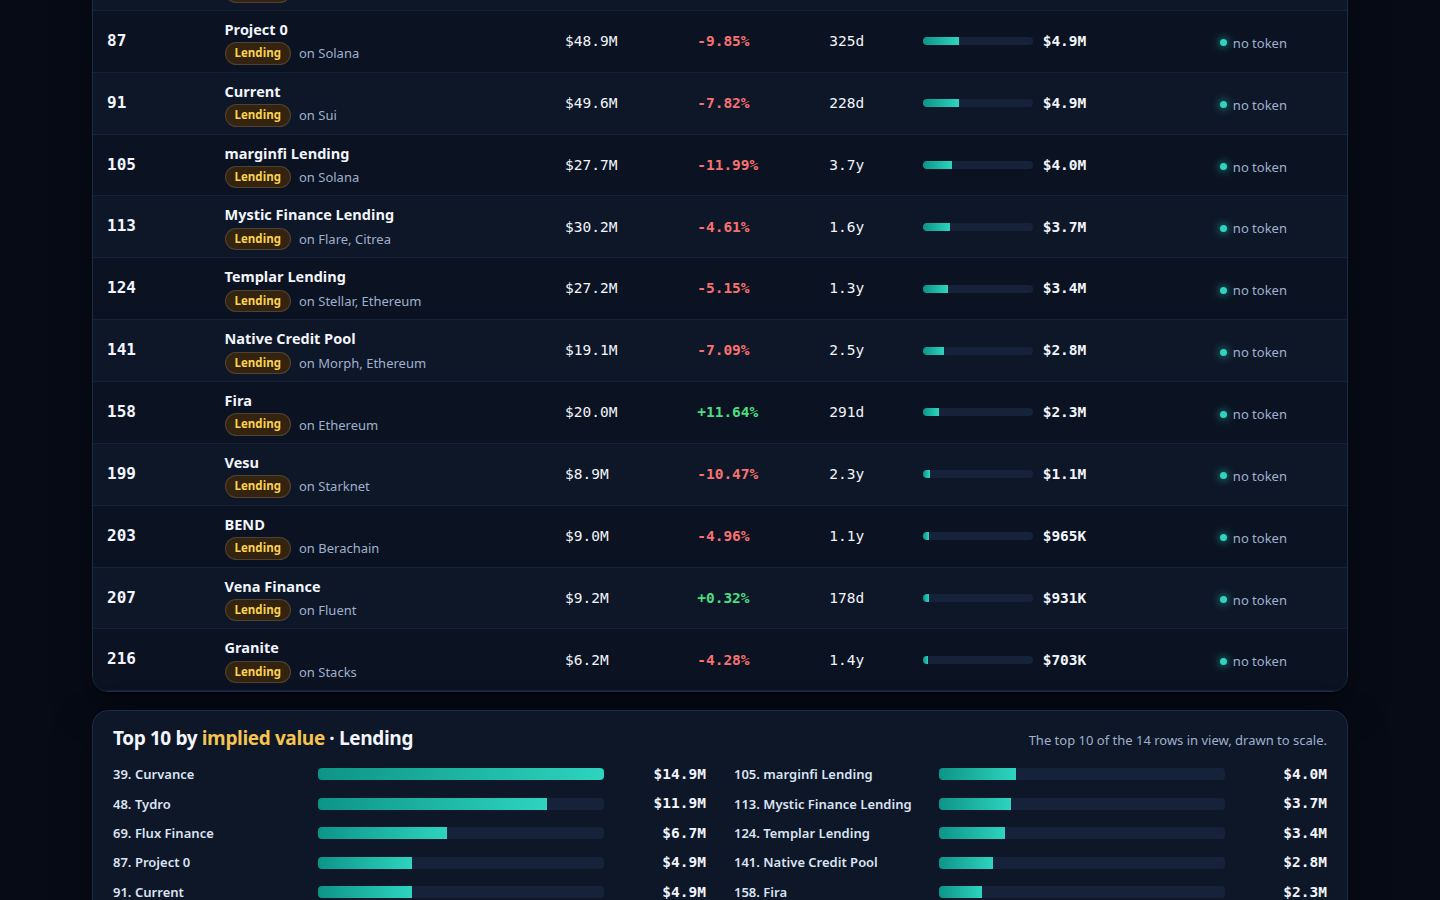
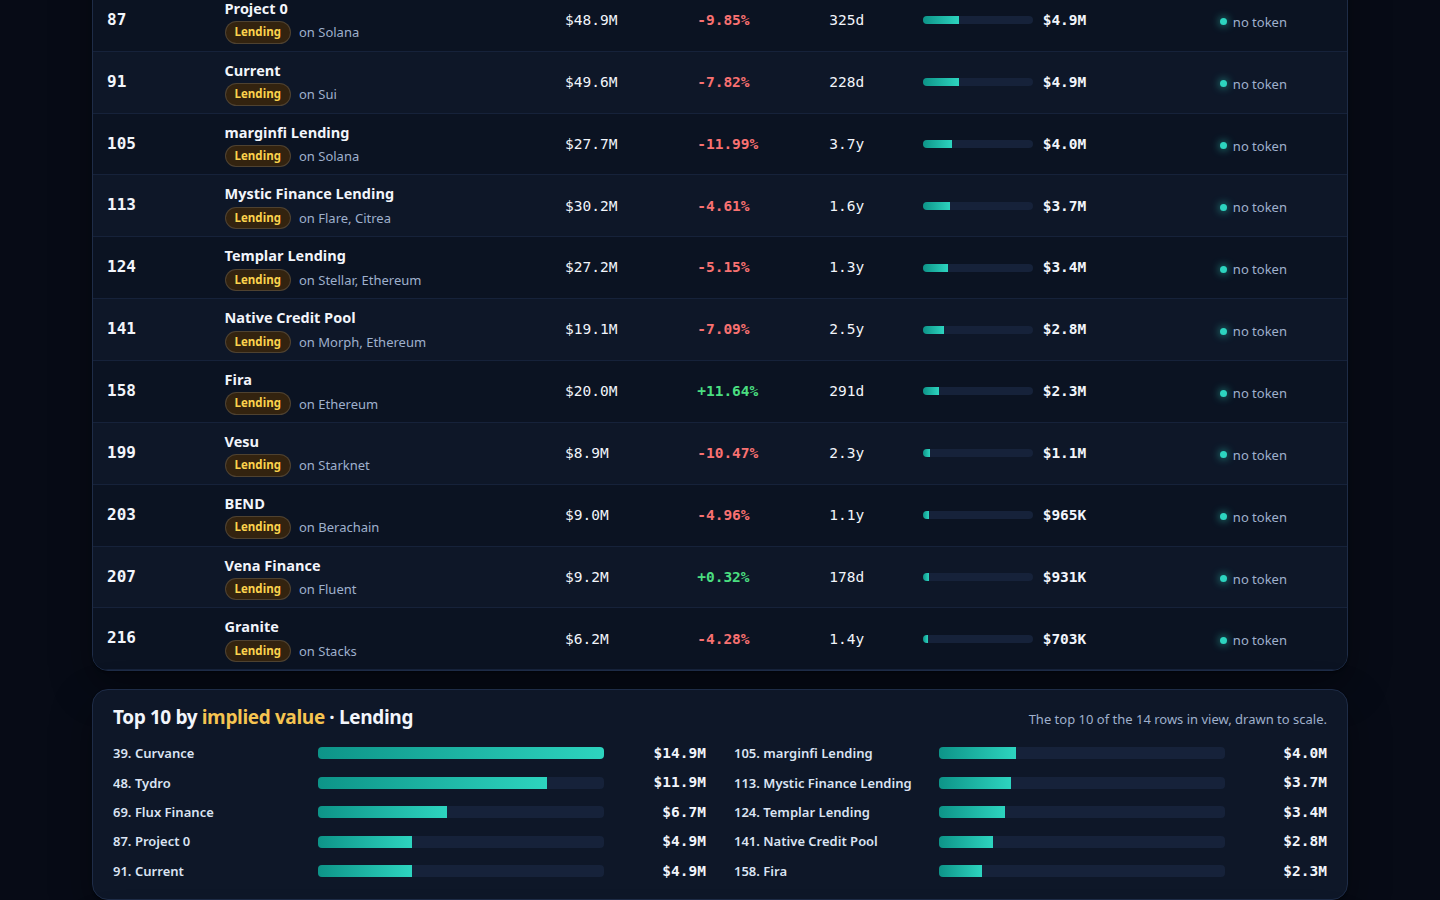
Add 'Open protocol page' affordance to detail drawer
- Detail drawer now shows the protocol's DefiLlama page as large
  selectable text (defillama.com/protocol/<slug>, no scheme) with a
  Copy link button (clipboard + fallback, 'Copied!' feedback) and the
  CoinGecko id when recorded; whole table row and hero card open the
  drawer. No clickable web link: the bounty gate refuses any
  http/https address in a dashboard attribute, so the copy button is
  the one-click way to the page.
- lib/model.ts: gecko_id carried into data.js rows; snapshot source
  line kept as plain text without its scheme (data.js had one
  https:// literal from it).
- Screenshots retaken; all 7 farm steps still fully visible.

diff --git a/dashboard/app.js b/dashboard/app.js
@@ -226,7 +226,7 @@
             el('b', { text: 'Every protocol with $50M+ of TVL and no token on record' }),
             ' — plus ' + DATA.early_size + ' early names below the floor — scored by one model: TVL × peer multiple × growth × maturity × chains. No names hand-picked. No promises, just the arithmetic.')
         ),
-        el('div', { class: 'hero-card' },
+        el('div', { class: 'hero-card', title: 'Open ' + top1.name + ' details', onclick: function () { openDetail(top1.slug); } },
           el('div', { class: 'hero-card-inner' },
             el('div', { class: 'label', text: '№ 1 · Implied value' }),
             el('div', { class: 'hero-value', text: fmtUsd(top1.implied_value_usd) }),
@@ -454,6 +454,33 @@
   var dialog = el('dialog', { class: 'detail', id: 'detail', 'aria-labelledby': 'detail-title' });
   dialog.addEventListener('close', function () { state.selected = null; writeHash(); });
 
+  // Copy plain text to the clipboard: the Clipboard API where it exists, a hidden
+  // textarea fallback where it does not (a file page in some browsers). The button
+  // shows the result, so the action is visible even when the clipboard cannot be read back.
+  function copyText(text, btn) {
+    function done() {
+      btn.textContent = 'Copied!';
+      btn.classList.add('copied');
+      setTimeout(function () { btn.textContent = 'Copy link'; btn.classList.remove('copied'); }, 2000);
+    }
+    function fallback() {
+      var ta = document.createElement('textarea');
+      ta.value = text;
+      ta.style.position = 'fixed';
+      ta.style.opacity = '0';
+      document.body.appendChild(ta);
+      ta.select();
+      try { document.execCommand('copy'); } catch (e) { /* clipboard unavailable */ }
+      document.body.removeChild(ta);
+      done();
+    }
+    if (navigator.clipboard && navigator.clipboard.writeText) {
+      navigator.clipboard.writeText(text).then(done, fallback);
+    } else {
+      fallback();
+    }
+  }
+
   function openDetail(slug) {
     var row = DATA.rows.filter(function (r) { return r.slug === slug; })[0];
     if (!row) return;
@@ -481,6 +508,28 @@
     }
     if (mult !== null && mult <= DATA.model.peer_floor + 1e-9) peerNoteText += ' It sits at the model floor of ' + DATA.model.peer_floor + 'x.';
     else if (mult !== null && mult >= DATA.model.peer_cap - 1e-9) peerNoteText += ' It sits at the model cap of ' + DATA.model.peer_cap + 'x.';
+    // Where this protocol lives on the web, as plain text the reader can copy: the
+    // snapshot carries no official website per protocol, so the honest page is the
+    // protocol's DefiLlama page, built from its slug. The address carries no scheme
+    // on purpose — a clickable web link is not allowed in this dashboard, so the
+    // copy button is the one-click way to the page: copy, paste into a browser.
+    var pageAddr = 'defillama.com/protocol/' + row.slug;
+    var geckoLine = row.gecko_id
+      ? 'CoinGecko id: ' + row.gecko_id
+      : 'No CoinGecko id recorded for this protocol.';
+    var copyBtn = el('button', { class: 'button copy-btn', type: 'button', text: 'Copy link' });
+    copyBtn.addEventListener('click', function () { copyText(pageAddr, copyBtn); });
+    var linkBox = el('div', { class: 'link-box' },
+      el('h3', { text: 'Open protocol page' }),
+      el('p', { class: 'sub', text: 'Paste into your browser to open its DefiLlama page.' }),
+      el('div', { class: 'link-row' },
+        // Break opportunities only after the slashes, so the address wraps cleanly
+        // instead of splitting mid-word.
+        el('code', { class: 'link-addr' }, 'defillama.com/', el('wbr'), 'protocol/', el('wbr'), row.slug),
+        copyBtn
+      ),
+      el('p', { class: 'sub', text: geckoLine })
+    );
     dialog.appendChild(el('div', { class: 'detail-head' },
       el('div', null,
         el('span', { class: 'brand-name', text: 'Rank ' + row.rank + ' of ' + DATA.board_size }),
@@ -510,7 +559,8 @@
           el('div', null, el('span', { text: 'Implied value' }), el('b', { class: 'num', text: fmtUsd(row.implied_value_usd) }))
         ),
         el('p', { class: 'peer-note', text: peerNoteText }),
-        el('p', { class: 'sub', text: 'Model ' + DATA.model_version + ': the same function scores every protocol. The page recomputes this row as ' + fmtUsd(impliedOf(row, DATA.model)) + (impliedOf(row, DATA.model) === row.implied_value_usd ? ', the same number board.json carries.' : ', which differs from the board: the data would be stale.') + ' This is an estimate, not a price.' })
+        el('p', { class: 'sub', text: 'Model ' + DATA.model_version + ': the same function scores every protocol. The page recomputes this row as ' + fmtUsd(impliedOf(row, DATA.model)) + (impliedOf(row, DATA.model) === row.implied_value_usd ? ', the same number board.json carries.' : ', which differs from the board: the data would be stale.') + ' This is an estimate, not a price.' }),
+        linkBox
       ),
       el('section', { class: 'detail-section' },
         el('h3', { text: 'Farm plan' }),

diff --git a/dashboard/app.css b/dashboard/app.css
@@ -84,7 +84,7 @@ a { color: var(--teal); }
 .hero-copy p { color: var(--muted); max-width: 58ch; margin-top: 12px; font-size: 16px; }
 .hero-copy p b { color: var(--ink); }
 .hero-card {
-  position: relative; border-radius: var(--radius-panel); padding: 2px;
+  position: relative; border-radius: var(--radius-panel); padding: 2px; cursor: pointer;
   background: linear-gradient(135deg, rgba(245, 196, 81, 0.9), rgba(45, 212, 191, 0.55) 55%, rgba(56, 189, 248, 0.35));
   box-shadow: 0 18px 50px rgba(0, 0, 0, 0.5), 0 0 0 1px rgba(245, 196, 81, 0.12), 0 0 44px rgba(245, 196, 81, 0.10);
 }
@@ -230,6 +230,21 @@ tbody tr[data-selected="true"] { background: #16283f; }
 .steps li::marker { color: var(--gold); font-weight: 800; font-family: var(--font-num); }
 .steps b { display: block; font-weight: 600; }
 .cost { color: var(--muted); font-size: 12.5px; font-family: var(--font-num); }
+
+/* OPEN PROTOCOL PAGE — the address as large selectable text plus a copy button.
+   There is deliberately no web link here: the bounty rules refuse one in this
+   dashboard, so the copy button is the one-click way to the page. */
+.link-box { margin-top: 12px; padding-top: 10px; border-top: 1px solid var(--line); }
+.link-box .sub { margin-top: 4px; }
+.link-row { display: flex; gap: 10px; align-items: stretch; margin-top: 8px; }
+.link-addr {
+  flex: 1; min-width: 0; user-select: all;
+  font-family: var(--font-num); font-size: 13.5px; font-weight: 700; color: var(--gold);
+  background: #0a1120; border: 1px solid var(--line); border-left: 3px solid var(--gold);
+  border-radius: 8px; padding: 8px 10px; line-height: 1.5;
+}
+.copy-btn { flex: none; min-height: 42px; background: var(--gold); border-color: var(--gold); color: #1a1405; }
+.copy-btn.copied { background: var(--teal); border-color: var(--teal); color: #04211c; }
 
 @media (max-width: 900px) {
   .shell { padding: 16px; }

diff --git a/lib/model.ts b/lib/model.ts
@@ -135,6 +135,7 @@ export interface RadarRow {
   change_7d: number | null;
   mcap_usd: number | null;
   listed_at: string | null;
+  gecko_id: string | null;
   age_days: number | null;
   implied_value_usd: number;
   peer_multiple: number;
@@ -478,6 +479,7 @@ export function radarRow(row: BoardRow): RadarRow {
     change_7d: row.change_7d,
     mcap_usd: row.mcap_usd,
     listed_at: row.listed_at,
+    gecko_id: row.gecko_id,
     age_days: row.age_days,
     implied_value_usd: row.implied_value_usd,
     peer_multiple: row.model.peer_multiple,
@@ -503,7 +505,10 @@ export function buildRadar(snapshot: Snapshot, model: ModelConstants = MODEL): {
     .sort((a, b) => b.peers - a.peers);
   const radar: RadarData = {
     as_of: snapshot.as_of,
-    source: snapshot.source,
+    // The snapshot's source line names its fetch address; the dashboard carries no
+    // scheme anywhere (the gate refuses one in any dashboard file), so the address
+    // is kept as plain text without its scheme.
+    source: snapshot.source.replace(/https?:\/\//g, ''),
     floor_usd: snapshot.floor_usd,
     model,
     model_version: MODEL_VERSION,
